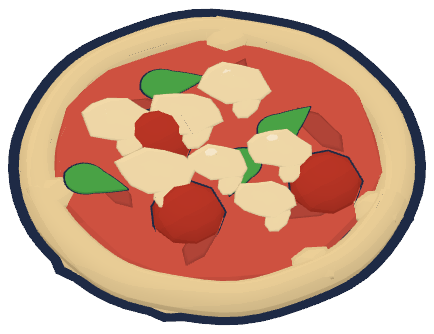
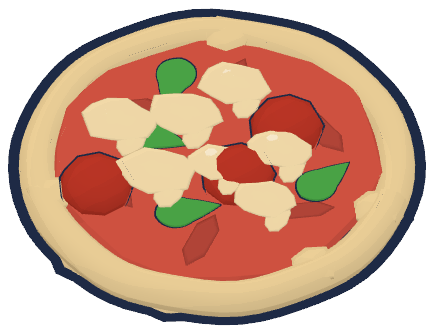
Pizza v1: пошаговые начинки, равномерная раскладка и меньший размер пиццы

diff --git a/static/pizza.js b/static/pizza.js
@@ -4,6 +4,7 @@
   if (!root) return;
   const DATA = JSON.parse(document.getElementById("pz-data").textContent);
   const BASE = root.dataset.static || "/static/pizza/";
+  const withVer = (name) => BASE + name + "?v=2";
   const $ = (id) => document.getElementById(id);
 
   const menu = $("pz-menu");
@@ -42,12 +43,12 @@
 
   function imageFor(s, recipe) {
     if (s <= 2) {
-      if (s === 2 && recipe.key === "caesar") return BASE + "pizza_dough_sauce_caesar.png";
-      return BASE + STAGE_IMAGES[s];
+      if (s === 2 && recipe.key === "caesar") return withVer("pizza_dough_sauce_caesar.png");
+      return withVer(STAGE_IMAGES[s]);
     }
-    if (s === 3) return BASE + "pizza_" + recipe.key + "_toppings.png";
-    if (s === 4) return BASE + "pizza_" + recipe.key + "_cheese.png";
-    return BASE + "pizza_" + recipe.key + "_baked.png";
+    if (s === 3) return withVer("pizza_" + recipe.key + "_top" + picked.size + ".png");
+    if (s === 4) return withVer("pizza_" + recipe.key + "_cheese.png");
+    return withVer("pizza_" + recipe.key + "_baked.png");
   }
 
   function clearBake() {
@@ -68,7 +69,7 @@
       btn.dataset.recipe = r.key;
       const ing = r.ingredients.map(function (i) { return i.en; }).join(" · ");
       btn.innerHTML =
-        '<img src="' + BASE + "pizza_" + r.key + '_baked.png" alt="">' +
+        '<img src="' + withVer("pizza_" + r.key + "_baked.png") + '" alt="">' +
         (done ? '<span class="pz-done">готово</span>' : '<span class="pz-new">+ ' + DATA.reward + '</span>') +
         "<h3>" + r.en + '<span class="pz-card-ru">' + r.ru + "</span></h3>" +
         '<span class="pz-card-ing">' + ing + "</span>";
@@ -80,14 +81,14 @@
   function renderIngredients() {
     ingredientsBox.innerHTML = "";
     if (step !== 2 && step !== 3) return;
-    current.ingredients.forEach(function (i) {
+    current.toppings.forEach(function (i) {
       const b = document.createElement("button");
       b.type = "button";
       b.className = "pz-ing" + (picked.has(i.key) ? " on" : "");
       b.dataset.key = i.key;
       b.setAttribute("aria-pressed", picked.has(i.key) ? "true" : "false");
       b.title = i.en + " — " + i.ru;
-      b.innerHTML = '<img src="' + BASE + i.key + '.png" alt=""><span>' + i.en + '</span><small>' + i.ru + "</small>";
+      b.innerHTML = '<img src="' + withVer(i.key + ".png") + '" alt=""><span>' + i.en + '</span><small>' + i.ru + "</small>";
       b.addEventListener("click", function () {
         if (!current) return;
         if (step === 2) { step = 3; picked.add(i.key); paint(); return; }
@@ -99,7 +100,7 @@
   }
 
   function allPicked() {
-    return current && picked.size >= current.ingredients.length;
+    return current && picked.size >= current.toppings.length;
   }
 
   function updateAction() {
@@ -111,7 +112,7 @@
       action.textContent = "Выбери продукты";
       action.disabled = true;
     } else if (step === 3) {
-      action.textContent = allPicked() ? "Посыпать сыром" : "Сначала выбери все продукты";
+      action.textContent = allPicked() ? "Посыпать сыром" : "Выбери все продукты";
       action.disabled = !allPicked();
     } else if (step === 4) {
       action.textContent = cooking ? "Печётся…" : "Поставить в печь";
@@ -121,7 +122,7 @@
 
   function hintText() {
     if (step === 2) return "Нажми на каждый продукт из рецепта — это начинка.";
-    if (step === 3) return "Начинки: " + picked.size + " из " + current.ingredients.length + ". " + (allPicked() ? "Всё на месте!" : "Нажми на оставшиеся продукты.");
+    if (step === 3) return "Начинки: " + picked.size + " из " + current.toppings.length + ". " + (allPicked() ? "Всё на месте!" : "Нажми на оставшиеся продукты.");
     if (step === 4) return cooking ? "Печётся… Подожди немного." : "Сыр сверху. Пора в печь!";
     if (step === 5) return "Пицца готова. Подай её Тому!";
     if (step === 0) return "Перед тобой кусок теста. Раскатай его скалкой.";
@@ -214,7 +215,7 @@
   function showResult(gained, already) {
     cook.hidden = true;
     result.hidden = false;
-    $("pz-result-img").src = BASE + "pizza_" + current.key + "_baked.png";
+    $("pz-result-img").src = withVer("pizza_" + current.key + "_baked.png");
     $("pz-result-title").textContent = "Готово! " + current.en;
     let text;
     if (gained > 0) {
@@ -239,6 +240,6 @@
     }
   });
 
-  $("pz-kitchen").src = BASE + "kitchen.webp";
+  $("pz-kitchen").src = withVer("kitchen.webp");
   renderMenu();
 })();

diff --git a/static/pizza.css b/static/pizza.css
@@ -36,7 +36,7 @@
 .pz-order-ru { color: var(--muted) !important; font-weight: 800 !important; font-size: 10px !important; }
 .pz-audio { flex: 0 0 auto; width: 30px; height: 30px; border-radius: 50%; border: 2px solid var(--line); background: var(--surface); color: var(--primary); display: flex; align-items: center; justify-content: center; }
 .pz-audio .ico { width: 18px; height: 18px; }
-.pz-pizza { position: absolute; left: 50%; top: 56%; width: 56%; transform: translate(-50%, -50%); z-index: 3; filter: drop-shadow(0 10px 10px rgba(80, 50, 20, .28)); pointer-events: none; }
+.pz-pizza { position: absolute; left: 50%; top: 55%; width: 40%; transform: translate(-50%, -50%); z-index: 3; filter: drop-shadow(0 10px 10px rgba(80, 50, 20, .28)); pointer-events: none; }
 
 .pz-panel { background: var(--surface); border: 2px solid var(--line); border-radius: 22px; box-shadow: var(--shadow); padding: 12px; }
 .pz-steps { display: flex; gap: 3px; list-style: none; padding: 0; margin: 0 0 10px; }
@@ -68,5 +68,5 @@
 @media (max-width: 520px) {
   .pz-cook { grid-template-columns: 1fr; }
   .pz-stage { aspect-ratio: 1 / 1; }
-  .pz-pizza { width: 62%; top: 58%; }
+  .pz-pizza { width: 40%; top: 55%; }
 }

diff --git a/templates/pizza.html b/templates/pizza.html
@@ -1,6 +1,6 @@
 {% extends "base.html" %}
 {% block title %}Пиццерия — English Fun{% endblock %}
-{% block head %}<link rel="stylesheet" href="{{ url_for('static', filename='pizza.css') }}?v=1">{% endblock %}
+{% block head %}<link rel="stylesheet" href="{{ url_for('static', filename='pizza.css') }}?v=2">{% endblock %}
 {% block content %}
 <section class="pz" id="pz" data-static="{{ url_for('static', filename='pizza/') }}" aria-label="Пиццерия бабушки">
   <div class="pz-head">
@@ -64,4 +64,4 @@
   <script type="application/json" id="pz-data">{{ data|tojson }}</script>
 </section>
 {% endblock %}
-{% block scripts %}<script src="{{ url_for('static', filename='pizza.js') }}?v=1"></script>{% endblock %}
+{% block scripts %}<script src="{{ url_for('static', filename='pizza.js') }}?v=2"></script>{% endblock %}

diff --git a/pizza.py b/pizza.py
@@ -20,6 +20,10 @@ RECIPES = {
             {"key": "tomato_sauce", "en": "tomato sauce", "ru": "томатный соус"},
             {"key": "basil", "en": "basil", "ru": "базилик"},
         ],
+        "toppings": [
+            {"key": "basil", "en": "basil", "ru": "базилик"},
+            {"key": "cherry_tomato", "en": "cherry tomato", "ru": "черри"},
+        ],
     },
     "pepperoni": {
         "en": "Pepperoni",
@@ -29,6 +33,9 @@ RECIPES = {
             {"key": "tomato_sauce", "en": "tomato sauce", "ru": "томатный соус"},
             {"key": "pepperoni", "en": "pepperoni", "ru": "пепперони"},
         ],
+        "toppings": [
+            {"key": "pepperoni", "en": "pepperoni", "ru": "пепперони"},
+        ],
     },
     "mushroom": {
         "en": "Mushroom",
@@ -36,6 +43,10 @@ RECIPES = {
         "ingredients": [
             {"key": "mozzarella", "en": "mozzarella", "ru": "моцарелла"},
             {"key": "tomato_sauce", "en": "tomato sauce", "ru": "томатный соус"},
+            {"key": "mushroom", "en": "mushrooms", "ru": "грибы"},
+            {"key": "oregano", "en": "oregano", "ru": "орегано"},
+        ],
+        "toppings": [
             {"key": "mushroom", "en": "mushrooms", "ru": "грибы"},
             {"key": "oregano", "en": "oregano", "ru": "орегано"},
         ],
@@ -50,6 +61,12 @@ RECIPES = {
             {"key": "lettuce", "en": "lettuce", "ru": "салат"},
             {"key": "parmesan", "en": "parmesan", "ru": "пармезан"},
         ],
+        "toppings": [
+            {"key": "chicken", "en": "chicken", "ru": "курица"},
+            {"key": "lettuce", "en": "lettuce", "ru": "салат"},
+            {"key": "parmesan", "en": "parmesan", "ru": "пармезан"},
+            {"key": "cherry_tomato", "en": "cherry tomato", "ru": "черри"},
+        ],
     },
 }
 
@@ -63,6 +80,7 @@ def recipes_view():
             "en": r["en"],
             "ru": r["ru"],
             "ingredients": [dict(i) for i in r["ingredients"]],
+            "toppings": [dict(i) for i in r["toppings"]],
         })
     return out
 

diff --git a/tests/test_pizza.py b/tests/test_pizza.py
@@ -26,6 +26,7 @@ def test_page_available_and_has_four_recipes(make_student):
     c = make_student()
     data = page_data(c)
     assert [x["key"] for x in data["recipes"]] == ["margherita", "pepperoni", "mushroom", "caesar"]
+    assert [len(x["toppings"]) for x in data["recipes"]] == [2, 1, 2, 4]
     assert data["reward"] == 3
 
 
